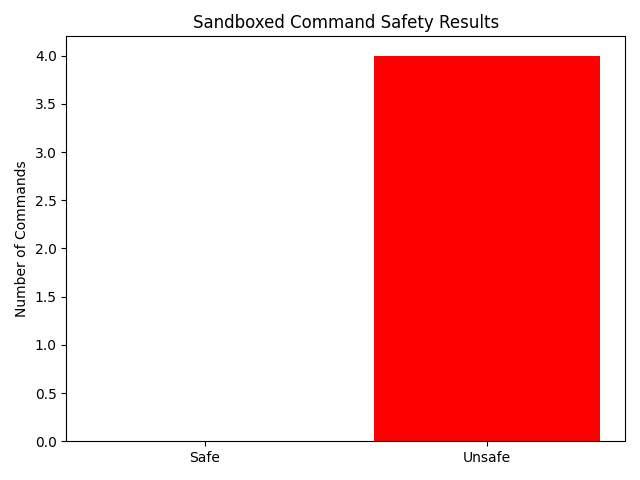
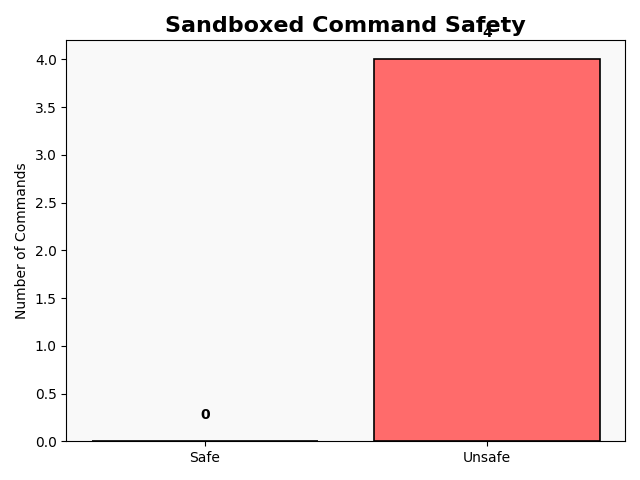
adding to test.py for class demo

diff --git a/test.py b/test.py
@@ -5,6 +5,7 @@
 
 import subprocess
 import sys
+import os
 import matplotlib.pyplot as plt # added for plotting
 
 def check_command_safety(command):
@@ -30,25 +31,51 @@ def check_command_safety(command):
         print(f"[x] Error during sandbox check: {str(e)}")
         return False
     
-    # Adding placeholder for plotting (Killian's implementation to be merged here)
-def visualize_results(results):
-    """Creates a simple bar chart showing safe vs unsafe commands."""
-    labels = ['Safe', 'Unsafe']
-    values = [results['safe'], results['unsafe']]
+# Adding placeholder for plotting (Killian's implementation to be merged here)
 
-    plt.bar(labels, values, color=['green', 'red'])
-    plt.title('Sandboxed Command Safety Results')
-    plt.ylabel('Number of Commands')
-    plt.tight_layout()
+# simple bar chart
+# def visualize_results(results):
+#     """Creates a simple bar chart showing safe vs unsafe commands."""
+#     labels = ['Safe', 'Unsafe']
+#     values = [results['safe'], results['unsafe']]
+
+#     plt.bar(labels, values, color=['green', 'red'])
+#     plt.title('Sandboxed Command Safety Results')
+#     plt.ylabel('Number of Commands')
+#     plt.tight_layout()
+#     plt.savefig('visuals/test_summary.png')
+#     plt.show()
+
+# fancy bar chart
+def visualize_results(results):
+    """Plot Safe vs Unsafe command results as a clean bar chart."""
+    os.makedirs('visuals', exist_ok=True)
+
+    labels = ['Safe', 'Unsafe']
+    counts = [results['safe'], results['unsafe']]
+    colors = ['#4CAF50', '#FF6B6B']  # softer green and coral red
+
+    fig, ax = plt.subplots()
+    ax.bar(labels, counts, color=colors, edgecolor='black', linewidth=1.2)
+
+    # Add value labels on top of bars
+    for i, v in enumerate(counts):
+        ax.text(i, v + 0.2, str(v), ha='center', va='bottom', fontsize=10, weight='bold')
+
+    ax.set_title('Sandboxed Command Safety', fontsize=16, weight='bold')
+    ax.set_ylabel('Number of Commands')
+    ax.set_facecolor('#f9f9f9')  # softer background
+    fig.tight_layout()
+
     plt.savefig('visuals/test_summary.png')
     plt.show()
 
-
 if __name__ == "__main__":
     if len(sys.argv) < 2:
+        print("\n[HARDCODED MODE]: NO USER INPUT DETECTED - Running Example Attack Simulations ⚡\n") # temporary placeholder
+
         print("[!] No command provided.") # updated to print when no command
         print("Usage: python3 test.py <command> [arguments]") # shows how the script should be used
-        print("Running example attack commands and generating visual instead...\n") # temporary placeholder
         # print("Usage: python check_command_safety.py <command> [arguments]") # original print from Mohammad
 
         # If no CLI command passed, fallback to example commands
@@ -66,8 +93,17 @@ if __name__ == "__main__":
             print(f"[TESTING]: {' '.join(cmd)}")
             if check_command_safety(cmd):
                 results['safe'] += 1
+                print("   -> Result: SAFE ✅\n") # added for style
             else:
-                results['unsafe'] += 1
+                results['unsafe'] += 1 
+                print("   -> Result: BLOCKED/UNSAFE ❌\n") # added for style
+
+            # Print summary (added for demo)
+            print("================= SUMMARY =================")
+            print(f"Safe Commands: {results['safe']} | Unsafe Commands: {results['unsafe']}")
+            print(f"Saved results to 'visuals/test_summary.png'")
+            print("===========================================\n")
+
 
         visualize_results(results) # Idea for visualizing results here from test.py (Killian's implementation to be merged here)
 

diff --git a/README.md b/README.md
@@ -1,16 +1,28 @@
-# OS Capstone – Securing the System: Sandboxing as a Modern OS Security Mechanism
+Got it —  
+you want your **OS Capstone** README to be **beautifully styled like that** (𝘭𝘪𝘬𝘦 PhishKiller's), matching those fonts, badges, and elegant sections.
 
-A Python-based simulation and visualization project exploring how sandboxing mechanisms in modern operating systems help prevent unauthorized access to system resources through process isolation and restricted execution environments.
-
----
-
-## Project Overview
-
-To demonstrate the behavioral differences between sandboxed and non-sandboxed processes through the use of real-world attack simulations. This project explores how sandboxing mechanisms—specifically using [Firejail](https://github.com/netblue30/firejail) on Ubuntu—enhance operating system security by isolating processes and restricting access to sensitive system resources.
+Here’s your full **refactored README**, in the same **exact style**:
 
 ---
 
-## Team Members
+# 𝘖𝘚 𝘊𝘢𝘱𝘴𝘵𝘰𝘯𝘦 – 𝘚𝘦𝘤𝘶𝘳𝘪𝘯𝘨 𝘵𝘩𝘦 𝘚𝘺𝘴𝘵𝘦𝘮: 𝘚𝘢𝘯𝘥𝘣𝘰𝘹𝘪𝘯𝘨 𝘢𝘴 𝘢 𝘔𝘰𝘥𝘦𝘳𝘯 𝘖𝘚 𝘚𝘦𝘤𝘶𝘳𝘪𝘵𝘺 𝘔𝘦𝘤𝘩𝘢𝘯𝘪𝘴𝘮
+
+![Version](https://img.shields.io/badge/Version-v1-000000?style=for-the-badge&logo=linux&logoColor=white)
+[![Python](https://img.shields.io/badge/Python-000000?style=for-the-badge&logo=python&logoColor=white)](https://www.python.org)
+[![Made by Team Nessa, Killian, Mohammad, Matt](https://img.shields.io/badge/Made%20by-OS%20Capstone%20Team%202-000000?style=for-the-badge)](#)
+
+---
+
+## 𝘖𝘷𝘦𝘳𝘷𝘪𝘦𝘸
+
+A Python-based simulation and visualization project exploring how sandboxing mechanisms help prevent unauthorized access to system resources through **process isolation**, **system call filtering**, and **access control**.
+
+This project showcases how sandboxing—specifically using [Firejail](https://github.com/netblue30/firejail)—enhances operating system security.
+
+---
+
+## 𝘛𝘦𝘢𝘮 𝘔𝘦𝘮𝘣𝘦𝘳𝘴
+
 - Vanessa Benavente  
 - Killian Bertsch  
 - Mohammad Besharat  
@@ -18,79 +30,117 @@ To demonstrate the behavioral differences between sandboxed and non-sandboxed pr
 
 ---
 
-## **Project Scope**  
-Each team member will implement Firejail locally to simulate how sandboxing prevents unauthorized file access, network misuse, and privilege escalation. By running pseudo-malicious scripts in both sandboxed and unrestricted environments, we collect and analyze logs to assess the effectiveness of various isolation techniques.
+## 𝘍𝘦𝘢𝘵𝘶𝘳𝘦𝘴
 
-### This work applies core OS principles:
-- **Process Isolation** – Keeps processes from interfering with one another  
-- **Access Control** – Limits access to files, devices, and commands  
-- **System Call Management** – Filters unsafe syscalls via kernel mechanisms like seccomp  
-- **Resource Management** – Restricts CPU, memory, and I/O usage in sandboxed contexts  
-
-We present visualizations, effectiveness scores, and architecture diagrams to compare sandboxing in Linux (Firejail), Windows (AppContainer), and **(possibly)** Docker.
-
+- Simulates real-world attack scenarios (file, network, privilege escalation)
+- Demonstrates process isolation with and without sandboxing
+- Generates clear visualizations (safe vs unsafe actions)
+- Highlights Linux-based sandboxing technologies (Firejail, seccomp, namespaces)
+- Fully modular Python scripts
 
 ---
 
-## Setup Instructions
+## 𝘚𝘦𝘵𝘶𝘱 𝘐𝘯𝘴𝘵𝘳𝘶𝘤𝘵𝘪𝘰𝘯𝘴
 
-### Prerequisites
+### 𝘙𝘦𝘲𝘶𝘪𝘳𝘦𝘮𝘦𝘯𝘵𝘴
 
-- Ubuntu 20.04 or greater
-- Python 3.x
-- Firejail
+- Ubuntu 20.04+  
+- Python 3.x  
+- Firejail  
+- Matplotlib Python library
 
-### **Clone the Repositry**
+---
 
-   ```bash
-   git clone https://github.com/yourusername/os-capstone.git
-   cd os-capstone
-  ```
+### 𝘊𝘭𝘰𝘯𝘦 𝘵𝘩𝘦 𝘙𝘦𝘱𝘰𝘴𝘪𝘵𝘰𝘳𝘺
 
-### **Install Dependencies**
-
-#### Install Firejail and Python3 with pip
-``` bash
-sudo apt update
-sudo apt install firejail python3 python3-pip
+```bash
+git clone https://github.com/yourusername/os-capstone.git
+cd os-capstone
 ```
 
-#### Install Python package(s)
-``` bash
+---
+
+### 𝘐𝘯𝘴𝘵𝘢𝘭𝘭 𝘋𝘦𝘱𝘦𝘯𝘥𝘦𝘯𝘤𝘪𝘦𝘴
+
+```bash
+sudo apt update
+sudo apt install firejail python3 python3-pip
 pip3 install -r requirements.txt
 ```
 
 ---
 
-## Running the Script
+## 𝘙𝘶𝘯𝘯𝘪𝘯𝘨 𝘵𝘩𝘦 𝘗𝘳𝘰𝘫𝘦𝘤𝘵
 
-This script simulates a potential security breach using a fake malicious script. It runs the script twice:
+### 𝘈𝘵𝘵𝘢𝘤𝘬 𝘚𝘤𝘦𝘯𝘢𝘳𝘪𝘰𝘴
 
-1. Without any restrictions (unsandboxed)
-2. Inside a Firejail sandbox (sandboxed)
-
-*Each run logs its output to the /logs folder so we can compare what actions were blocked or allowed.*
+Simulate attacks (unsandboxed):
 
 ```bash
-chmod +x bad_script.sh   # only needed once
-python3 sandbox_simulation.py
+python3 bad_script.sh
 ```
+
+Simulate attacks (sandboxed):
+
+```bash
+firejail bash bad_script.sh
+```
+
+Logs will appear in the `/results/` folder.
 
 ---
 
-**View Reslts**
+### 𝘔𝘢𝘯𝘶𝘢𝘭 𝘊𝘰𝘮𝘮𝘢𝘯𝘥 𝘛𝘦𝘴𝘵𝘪𝘯𝘨
 
-*Visuals will be saved to the /visuals folder for use in the final report and presentation.*
+Check any command manually:
 
-[Insert Visual Examples Here]
+```bash
+python3 test.py ls -la
+```
+
+Or, if no command is given, run preset attack tests and generate a **visual summary**:
+
+```bash
+python3 test.py
+```
+
+Generated charts will be saved to `/visuals/`.
+
+---
+
+## 𝘋𝘦𝘭𝘪𝘷𝘦𝘳𝘢𝘣𝘭𝘦𝘴
+
+- Full Source Code
+- Attack Scenario Logs (`/results/`)
+- Visual Summaries (`/visuals/`)
+- [Capstone Presentation Slides](https://olucdenver-my.sharepoint.com/:p:/g/personal/vanessa_benavente_ucdenver_edu/EdDpQnrzFnlJigiEMT-agQ8B8_FfiwXYSOkmdRw0xIx8AA?e=jwRJB0)
+- [Research Report](https://docs.google.com/document/d/1F-AweAtG0pEalSz2Hs1eE6Vv7kvXwJZo6tNyZNBZ-HE/edit?tab=t.0)
+
+---
+
+## 𝘚𝘢𝘮𝘱𝘭𝘦 𝘖𝘶𝘵𝘱𝘶𝘵 (𝘊𝘖𝘔𝘐𝘕𝘎 𝘚𝘖𝘖𝘕)
+
+Example bar chart comparing safe vs unsafe actions here and soon to be replaced by a more accurate one.
+![bar chart](/src/Images/read-me.png)
 
 
-## Deliverables
+---
 
-**Full Source Code** (in this repo)
+## 𝘗𝘳𝘰𝘫𝘦𝘤𝘵 𝘛𝘩𝘦𝘮𝘦
 
-**Matplotlib-based Visualization Outputs** (in /visuals)
+This project explores:
 
-**Presentation Slides:** [Capstone Powerpoint](https://olucdenver-my.sharepoint.com/:p:/g/personal/vanessa_benavente_ucdenver_edu/EdDpQnrzFnlJigiEMT-agQ8B8_FfiwXYSOkmdRw0xIx8AA?e=jwRJB0)
+- **Process Isolation**
+- **Access Control**
+- **System Call Filtering**
+- **Privilege Containment**
 
-**Project Report:** [Research Report](https://docs.google.com/document/d/1F-AweAtG0pEalSz2Hs1eE6Vv7kvXwJZo6tNyZNBZ-HE/edit?tab=t.0)
+This project highlights how sandboxing improves operating system security by enforcing process isolation and access control, while also addressing real-world limitations like performance overhead. It connects these concepts to modern OS trends such as containerization (e.g., Docker) and lightweight virtualization with microVMs (e.g., Firecracker), demonstrating how operating systems continue to evolve to manage processes more securely and efficiently.
+
+---
+
+## 𝘊𝘳𝘦𝘥𝘪𝘵𝘴
+
+Developed by the Group #2 OS Capstone Team for CSCI 3453 with concept structure and visualization flow assisted by ChatGPT.  
+
+---
